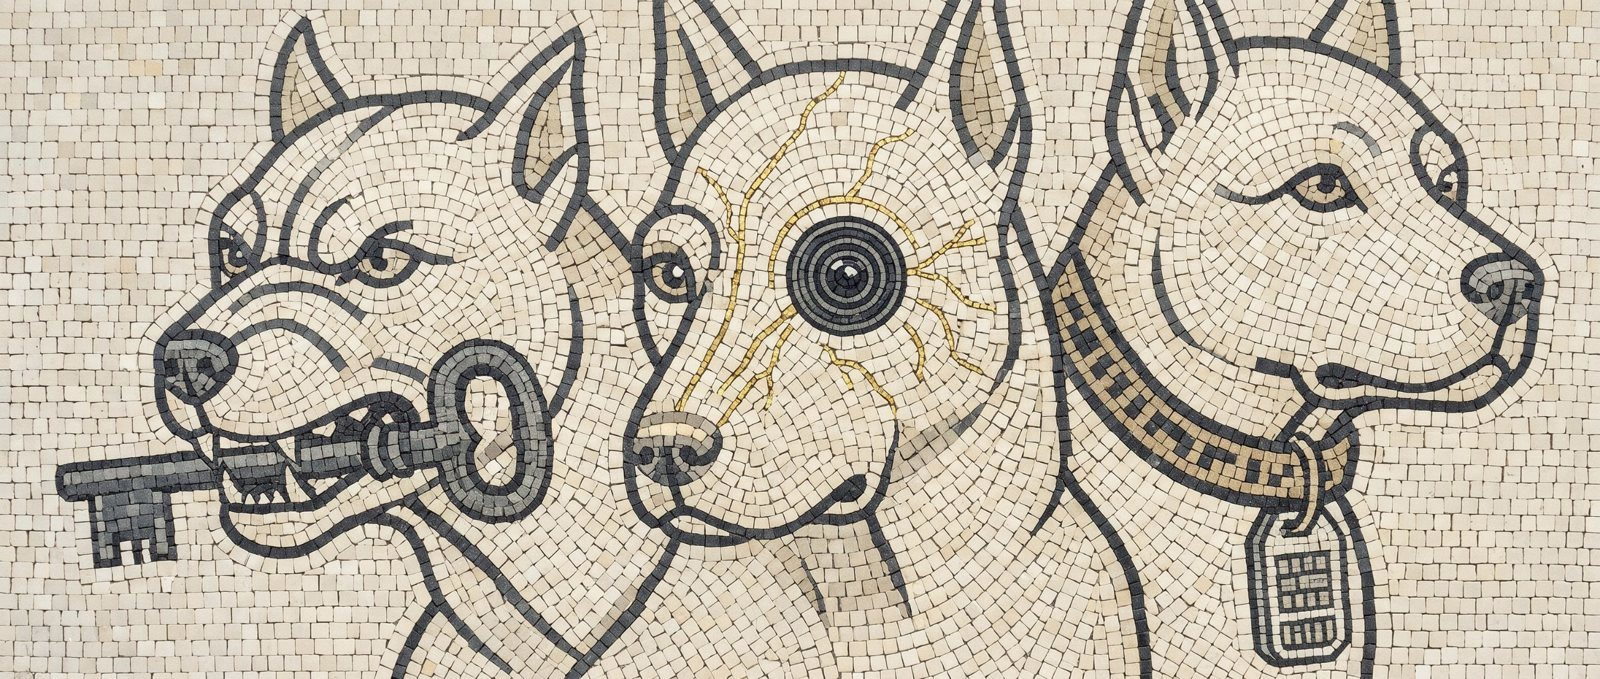
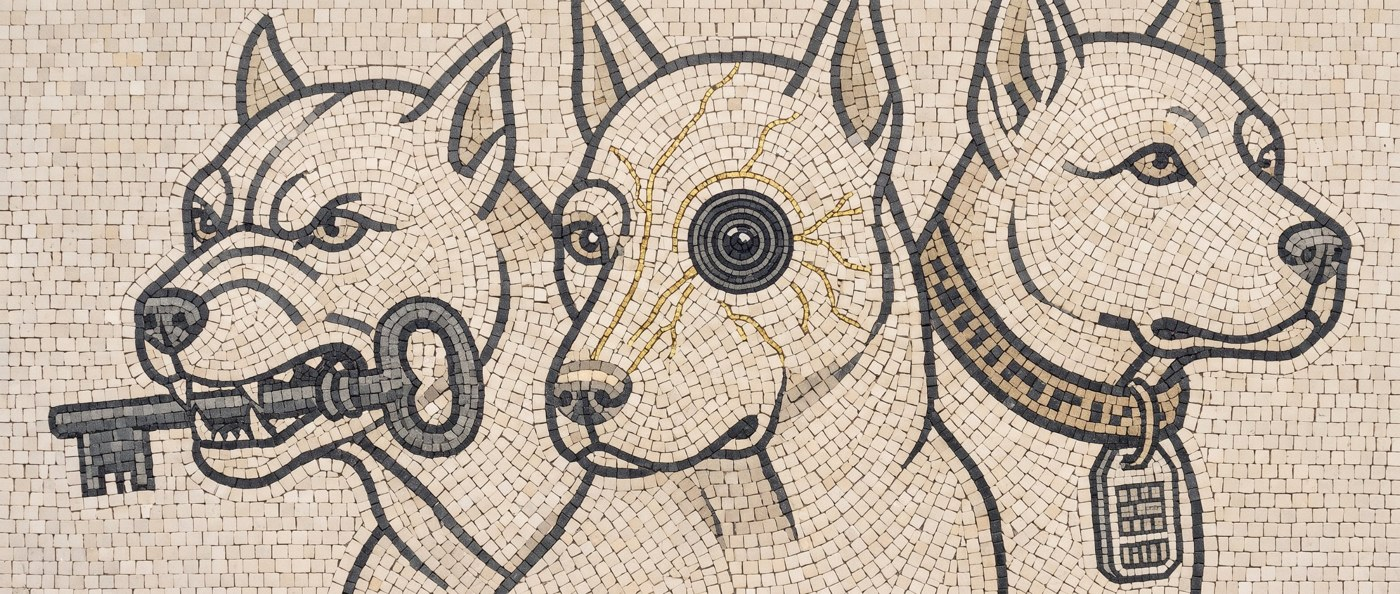
Imagen v3.2: calibración del oro, referencias originales y Morlán
- El oro se mide por encima de la croma mediana de cada imagen (+0.10). Con
  el umbral absoluto de 0.3 de la especificación, el fondo de arena cálido
  contaba como oro en unas imágenes y el oro fino no se veía en otras.
  Calibrado con las 16 imágenes aprobadas del 11 nov y las 2 referencias:
  18 de 18 pasan (0.15% a 14%). La máscara del modo oscuro también es
  relativa al fondo, para no dejar teselas sueltas encendidas.
- Referencias y portada: archivos originales de banco-imagenes.
- Sitio y README: Hiram Morlán, con acento.

Claude-Session: https://claude.ai/code/session_01JrJSoux1GnVouVjAFfqAR6

Changed region(s): [[0.5221, 0.2727, 0.5529, 0.303], [0.43, 0.5455, 0.4607, 0.5758]]

diff --git a/frontend/src/lib/components/layout/Footer.svelte b/frontend/src/lib/components/layout/Footer.svelte
@@ -11,11 +11,11 @@
 				<a href="/about" class="no-underline hover:text-tinta">Acerca de</a>
 				<a href="/archive" class="no-underline hover:text-tinta">Archivo</a>
 				<a href="/feeds" class="no-underline hover:text-tinta">RSS</a>
-				<span>&copy; {currentYear} Hiram Morlan</span>
+				<span>&copy; {currentYear} Hiram Morlán</span>
 			</nav>
 		</div>
 		<p class="font-serif italic text-[14px] leading-relaxed text-tinta-suave">
-			Curaduría asistida por IA y revisada por Hiram Morlan, solo con fuentes públicas. Cada nota
+			Curaduría asistida por IA y revisada por Hiram Morlán, solo con fuentes públicas. Cada nota
 			pasa por una segunda verificación contra su fuente y enlaza al original; aun así puede contener
 			errores. <a href="/about" class="enlace">Cómo funciona</a>
 		</p>

diff --git a/frontend/src/routes/about/+page.svelte b/frontend/src/routes/about/+page.svelte
@@ -52,7 +52,7 @@
 		<h2 class="t-label text-electric mb-3">Créditos</h2>
 		<div class="prose-summary t-body max-w-none">
 			<p>
-				Proyecto personal de Hiram Morlan, con fuentes exclusivamente públicas. El código parte del
+				Proyecto personal de Hiram Morlán, con fuentes exclusivamente públicas. El código parte del
 				proyecto de código abierto
 				<a href="https://github.com/flyryan/ai-news-aggregator" target="_blank" rel="noopener noreferrer">ai-news-aggregator</a>
 				(licencia Apache 2.0), adaptado para este fin.

diff --git a/generators/hero_postprocess.py b/generators/hero_postprocess.py
@@ -20,11 +20,20 @@ GAIN_MIN, GAIN_MAX = 0.85, 1.18
 OBSIDIAN = np.array([14, 15, 18], dtype=np.float32) / 255.0      # --papel oscuro
 IVORY_INK = np.array([236, 230, 216], dtype=np.float32) / 255.0  # --tinta oscura
 
-# Oro: croma > 0.3 (§6.4) y tono entre ~25° y ~65° (ámbar a amarillo).
-GOLD_CHROMA = 0.30
+# Oro: tono entre ~25° y ~65° (ámbar a amarillo) y croma por encima del fondo.
+# Calibrado el 11 nov con las 16 imágenes de las pruebas v3.2 y de consistencia
+# más las 2 referencias: el fondo de arena tiene croma de 0.13 a 0.22 según la
+# imagen, así que un umbral absoluto de 0.3 (el de la especificación) contaba el
+# fondo cálido como oro en unas y no veía el oro fino en otras. Con un umbral
+# relativo (mediana de la imagen + 0.10) las 16 aprobadas miden de 1.6% a 13.8%
+# y las referencias 0.15% (Troya, oro en línea fina) y 1.3% (Cerbero).
+GOLD_CHROMA_OVER_MEDIAN = 0.10
+GOLD_CHROMA = 0.30                # solo para colores ajenos (saturación fuerte)
 GOLD_HUE = (25.0 / 360.0, 65.0 / 360.0)
-GOLD_RANGE = (0.015, 0.10)        # entre 1.5% y 10% de la imagen
+GOLD_RANGE = (0.001, 0.15)        # 0.1% (hay oro) a 15% (no es un mosaico dorado)
 FOREIGN_MAX = 0.003               # tolerancia a ruido JPEG: 0.3% de píxeles
+# Máscara de la variante oscura: rampa sobre la croma relativa al fondo.
+DARK_MASK_START, DARK_MASK_WIDTH = 0.12, 0.12
 
 SERVE_WIDTH = 2400                # §6.6: ~2400 px para el paneo
 THUMB_WIDTH = 640
@@ -98,10 +107,11 @@ class ColorCheck:
 
 def configure(control: dict | None) -> None:
     """Toma los umbrales de config/hero_prompt.yaml (bloque control)."""
-    global GOLD_CHROMA, GOLD_RANGE, FOREIGN_MAX
+    global GOLD_CHROMA, GOLD_CHROMA_OVER_MEDIAN, GOLD_RANGE, FOREIGN_MAX
     if not control:
         return
-    GOLD_CHROMA = float(control.get("croma_oro", GOLD_CHROMA))
+    GOLD_CHROMA = float(control.get("croma_ajenos", GOLD_CHROMA))
+    GOLD_CHROMA_OVER_MEDIAN = float(control.get("croma_oro_sobre_fondo", GOLD_CHROMA_OVER_MEDIAN))
     GOLD_RANGE = (float(control.get("oro_min", GOLD_RANGE[0])), float(control.get("oro_max", GOLD_RANGE[1])))
     FOREIGN_MAX = float(control.get("ajenos_max", FOREIGN_MAX))
 
@@ -116,7 +126,8 @@ def color_check(a: np.ndarray) -> ColorCheck:
     croma = small.max(-1) - small.min(-1)
     saturated = croma > GOLD_CHROMA
     hue = _hue(small)
-    gold = saturated & (hue >= GOLD_HUE[0]) & (hue <= GOLD_HUE[1])
+    above_background = croma > float(np.median(croma)) + GOLD_CHROMA_OVER_MEDIAN
+    gold = above_background & (hue >= GOLD_HUE[0]) & (hue <= GOLD_HUE[1])
     # Ajeno: saturado y fuera de un margen amplio alrededor del oro (rojizos a
     # verdosos tolerados como sombra del oro), es decir verdes, cianes, azules, morados.
     foreign = saturated & ((hue < 10 / 360) | (hue > 75 / 360))
@@ -154,7 +165,10 @@ def dark_mosaic(a: np.ndarray) -> np.ndarray:
     h, l, s = rgb_to_hls(a)
     dark = np.clip(hls_to_rgb(h, 1 - l, s), 0, 1)
     croma = a.max(-1) - a.min(-1)
-    m = np.clip((croma - .22) / .13, 0, 1)
+    # Relativa al fondo: en mosaicos cálidos la arena ya tiene croma ~0.2 y una
+    # rampa absoluta (0.22) la protegería como si fuera oro.
+    start = float(np.median(croma)) + DARK_MASK_START
+    m = np.clip((croma - start) / DARK_MASK_WIDTH, 0, 1)
     mask = to_image(np.repeat(m[..., None], 3, -1)).convert("L")
     mask = mask.filter(ImageFilter.MaxFilter(3)).filter(ImageFilter.GaussianBlur(1.2))
     m = (np.asarray(mask, dtype=np.float32) / 255.0)[..., None]

diff --git a/docs/identidad-visual.md b/docs/identidad-visual.md
@@ -49,7 +49,7 @@ Autoalojada con `@fontsource` (la CSP del sitio solo permite fuentes propias):
 - **Diario: mosaico romano con circuitos de oro.** Bloque de prompt fijo + 3 ejes variables (escena, composición, estado del mosaico) + 2 imágenes de referencia.
 - **Domingo y respaldo: grabado al buril** sepia, sin oro.
 - **Banco de motivos con memoria:** 4 registros (mito, vida cotidiana, crónica, emblema). El mismo motivo no se repite en 8 semanas ni se repiten composición o registro en ediciones seguidas.
-- **2 candidatas en Batch API** con control automático: oro medido, colores ajenos y revisión visual con Haiku. Si ninguna pasa, un mosaico más y después el grabado. Nunca se publica una imagen que no pasó.
+- **2 candidatas en Batch API** con control automático: oro medido, colores ajenos y revisión visual con Haiku. El oro se mide por encima de la croma mediana de cada imagen (el fondo de arena varía de 0.13 a 0.22); calibrado con las 16 imágenes aprobadas del 11 nov, que miden de 1.6% a 14%. El umbral absoluto de la especificación (0.3) contaba el fondo cálido como oro en unas imágenes y no veía el oro fino en otras. Si ninguna pasa, un mosaico más y después el grabado. Nunca se publica una imagen que no pasó.
 - **Postproceso local, sin costo:** tono del mosaico emparejado al marfil de referencia, papel del grabado blanqueado, variante oscura derivada protegiendo el oro (nunca se le pide al modelo).
 
 ## Dónde vive cada pieza
@@ -72,8 +72,6 @@ Autoalojada con `@fontsource` (la CSP del sitio solo permite fuentes propias):
 
 ## Pendientes
 
-- [ ] Calibrar el umbral de oro con las imágenes originales del 11 nov antes de usarlo como filtro duro.
-- [ ] Reemplazar las referencias por los archivos originales de `banco-imagenes/referencias/`.
 - [ ] Foto o video para la franja humana.
 - [ ] Plantilla completa del domingo (firma, capitular, cifra, ilustración interior).
 - [ ] Logotipo y favicon; `og:image`.

diff --git a/CLAUDE.md b/CLAUDE.md
@@ -4,7 +4,7 @@ Instrucciones para Claude (y cualquier asistente de código) al trabajar en este
 
 ## Qué es este proyecto
 
-**Radar de Identidad** es un radar de inteligencia **en español** sobre identidad digital y sobre las noticias de IA y ciberseguridad que cambian **cómo decidimos en quién o en qué confiar**. Es un proyecto personal de Hiram Morlan, construido solo con fuentes públicas.
+**Radar de Identidad** es un radar de inteligencia **en español** sobre identidad digital y sobre las noticias de IA y ciberseguridad que cambian **cómo decidimos en quién o en qué confiar**. Es un proyecto personal de Hiram Morlán, construido solo con fuentes públicas.
 
 El código parte de [flyryan/ai-news-aggregator](https://github.com/flyryan/ai-news-aggregator) (Apache 2.0), pero es un **proyecto aparte**, con otro propósito, otra marca y otras fuentes. Los cambios respecto al original están en `NOTICE` y la documentación técnica original se conserva en `docs/upstream/`.
 

diff --git a/README.md b/README.md
@@ -79,6 +79,6 @@ Las API keys nunca se suben al repo: `config/providers.yaml` está en `.gitignor
 
 ## Créditos y licencia
 
-Proyecto personal de Hiram Morlan, construido exclusivamente con fuentes públicas.
+Proyecto personal de Hiram Morlán, construido exclusivamente con fuentes públicas.
 
 El código parte de [flyryan/ai-news-aggregator](https://github.com/flyryan/ai-news-aggregator) y se distribuye bajo la misma licencia [Apache 2.0](LICENSE). Los cambios respecto al original están descritos en [NOTICE](NOTICE). La documentación técnica del proyecto original está en [`docs/upstream/`](docs/upstream/).
